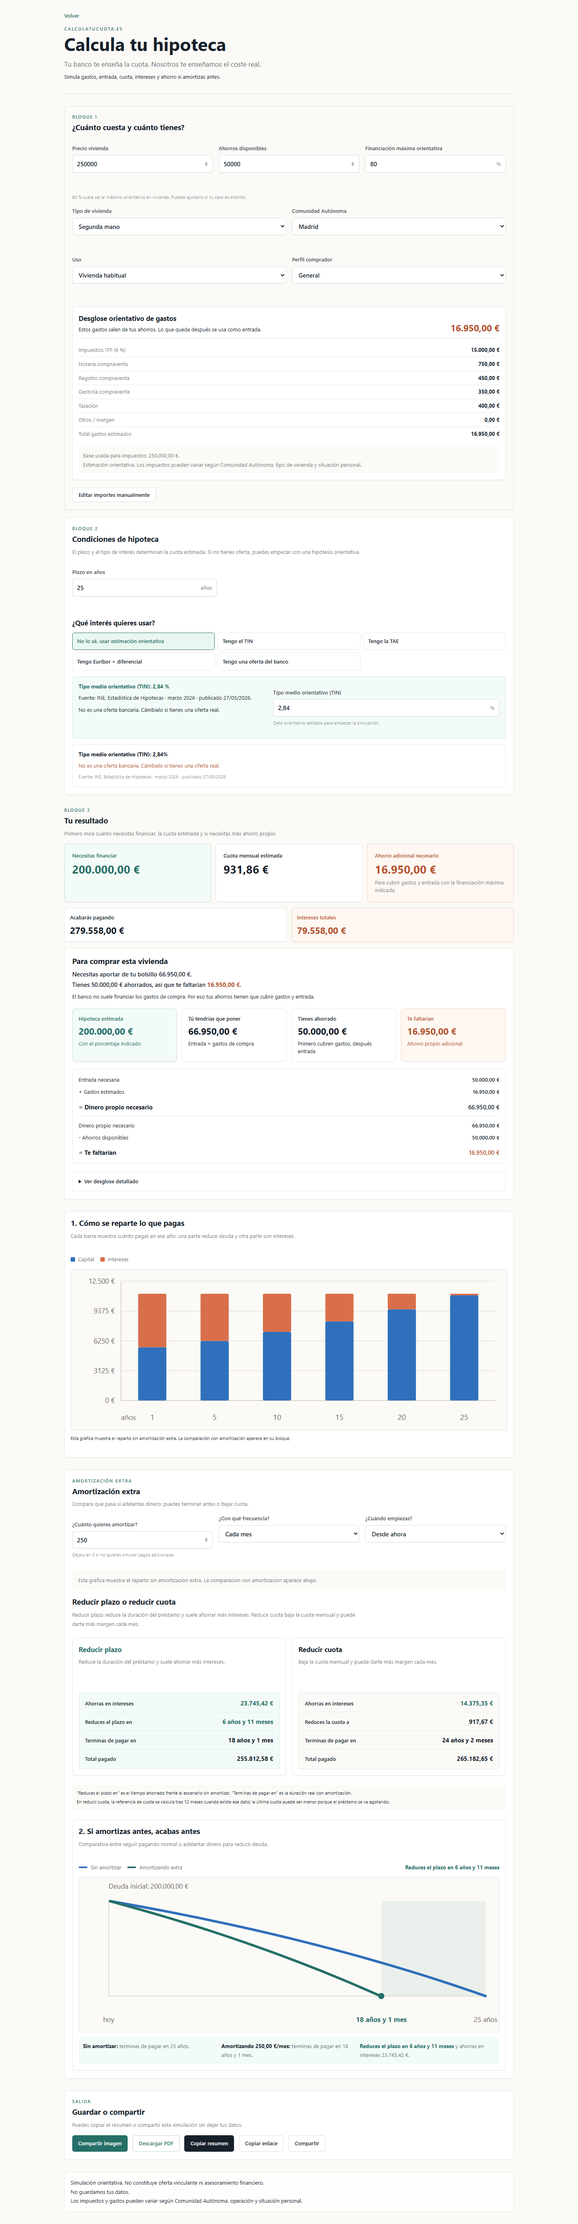
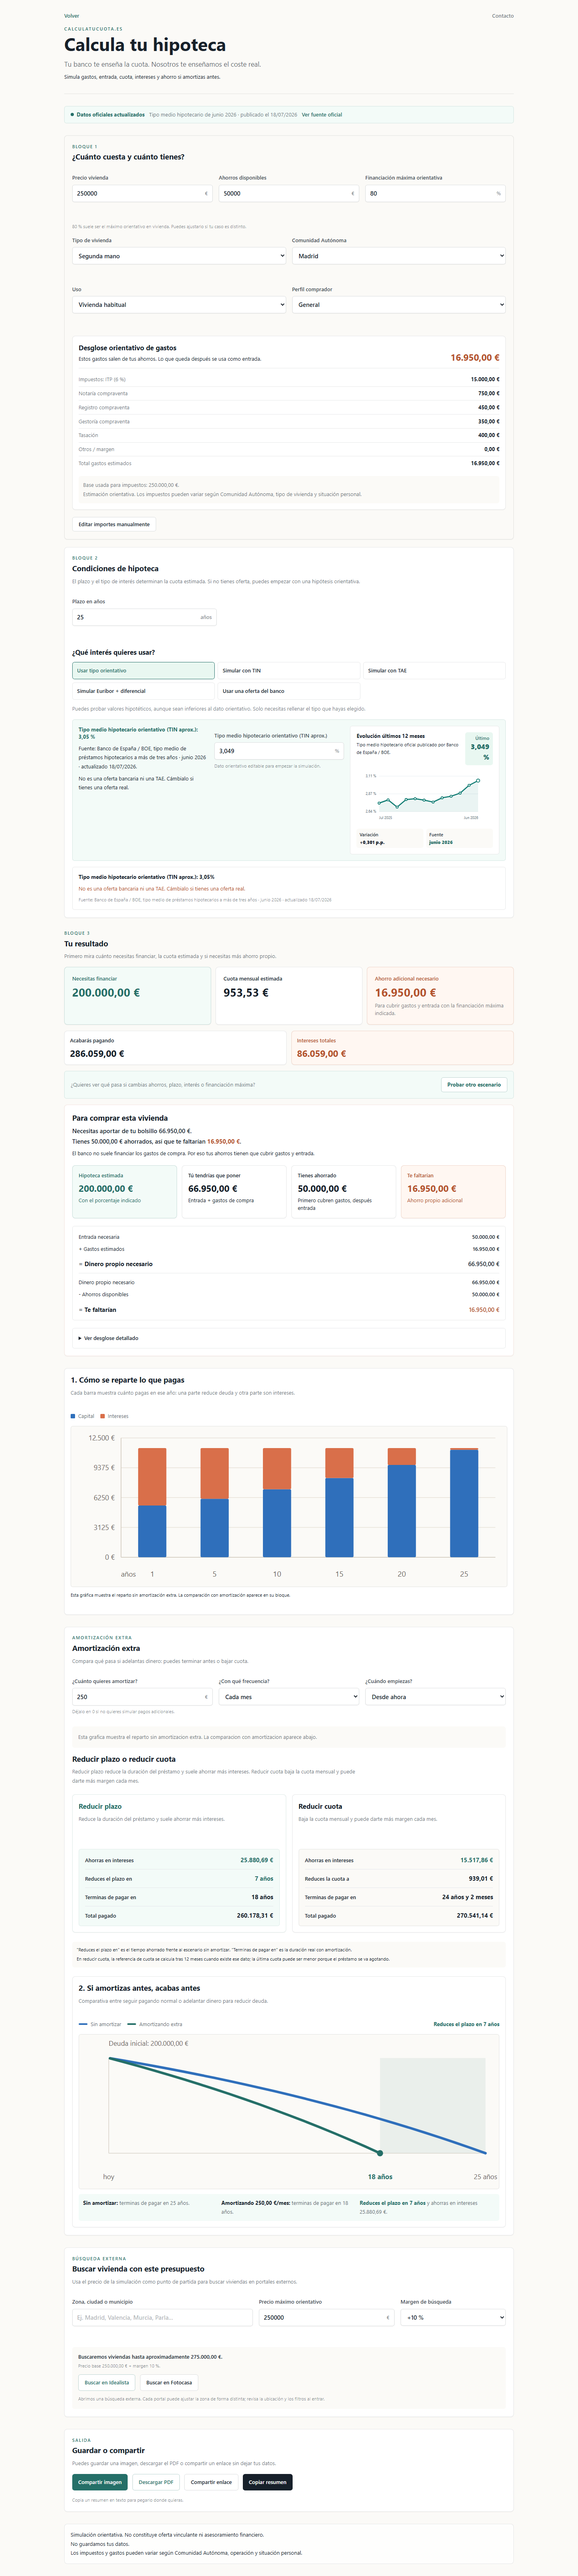
Actualiza showcase con datos hipotecarios

diff --git a/README.md b/README.md
@@ -1,6 +1,6 @@
 # calculatucuota.es
 
-Calculadora financiera web para simular hipotecas, préstamos personales y amortización anticipada de forma clara, visual y sin registro.
+Herramienta financiera web para simular hipotecas, préstamos personales y amortización anticipada, y consultar la evolución del mercado hipotecario español con datos oficiales.
 
 [![Proyecto activo](https://img.shields.io/badge/estado-activo-brightgreen)]()
 [![Código privado](https://img.shields.io/badge/código-privado-lightgrey)]()
@@ -36,6 +36,8 @@ La herramienta permite simular de forma rápida:
 - préstamos personales;
 - amortización anticipada;
 - comparación entre reducir plazo y reducir cuota;
+- seguimiento del tipo hipotecario medio y del Euríbor;
+- análisis de si existe un mes sistemáticamente más barato para contratar una hipoteca;
 - informes descargables en PDF;
 - imagen compartible;
 - resumen en texto para copiar y enviar.
@@ -63,6 +65,7 @@ El objetivo es que cualquier usuario pueda entender:
 | Build | Static build |
 | Deploy | Vercel |
 | Dominio | calculatucuota.es |
+| Datos públicos | INE y Banco de España |
 
 ---
 
@@ -103,6 +106,22 @@ El objetivo es que cualquier usuario pueda entender:
 - Avisos cuando los datos introducidos no son coherentes.
 - Salida compartible en PDF, imagen y texto.
 
+### Evolución del tipo hipotecario medio
+
+- Último tipo hipotecario medio publicado por el INE.
+- Último Euríbor a 12 meses publicado por el Banco de España.
+- Evolución histórica de ambas series.
+- Comparación entre hipotecas a tipo fijo y variable.
+- Análisis estadístico de la estacionalidad mensual.
+- Actualización periódica a partir de fuentes oficiales.
+
+El análisis concluye que, una vez considerada la evolución general de los tipos,
+no existe un mes sistemáticamente más barato en el periodo reciente.
+
+<p align="center">
+  <img src="assets/screenshots/evolucion-tipo-medio-hipotecas.png" alt="Evolución del tipo hipotecario medio y análisis de estacionalidad en calculatucuota.es" width="900" />
+</p>
+
 ---
 
 ## Privacidad
@@ -141,6 +160,7 @@ La interfaz se organiza en páginas independientes:
 | `/calculadora-prestamo-personal` | Simulador de préstamo personal |
 | `/simulador-amortizacion` | Simulador de amortización anticipada |
 | `/reducir-cuota-o-plazo` | Explicación y acceso a comparativa |
+| `/evolucion-tipo-medio-hipotecas` | Datos actuales, evolución histórica y análisis de estacionalidad |
 
 ---
 
@@ -162,9 +182,9 @@ Este repositorio es únicamente una presentación pública del proyecto. No cont
 
 ## Estado del proyecto
 
-Proyecto activo en fase MVP.
+Proyecto activo en producción.
 
-La primera versión está centrada en ofrecer una experiencia clara, rápida y útil para usuarios que quieren entender mejor una financiación antes de hablar con un banco o comparar ofertas.
+La aplicación combina simuladores financieros con información pública del mercado hipotecario para que el usuario pueda entender una financiación antes de hablar con un banco o comparar ofertas.
 
 ---
 
@@ -176,7 +196,8 @@ Próximas mejoras previstas:
 - añadir más explicaciones para usuarios no técnicos;
 - mejorar el sistema de compartir en móvil;
 - añadir comisión de amortización anticipada en porcentaje;
-- revisar periódicamente tipos medios orientativos;
+- automatizar por completo la actualización mensual de los datos oficiales;
+- incorporar previsiones experimentales cuando exista suficiente historial de seguimiento fuera de muestra;
 - añadir más ejemplos guiados;
 - mejorar la salida visual de informes;
 - preparar comparativas más avanzadas.
